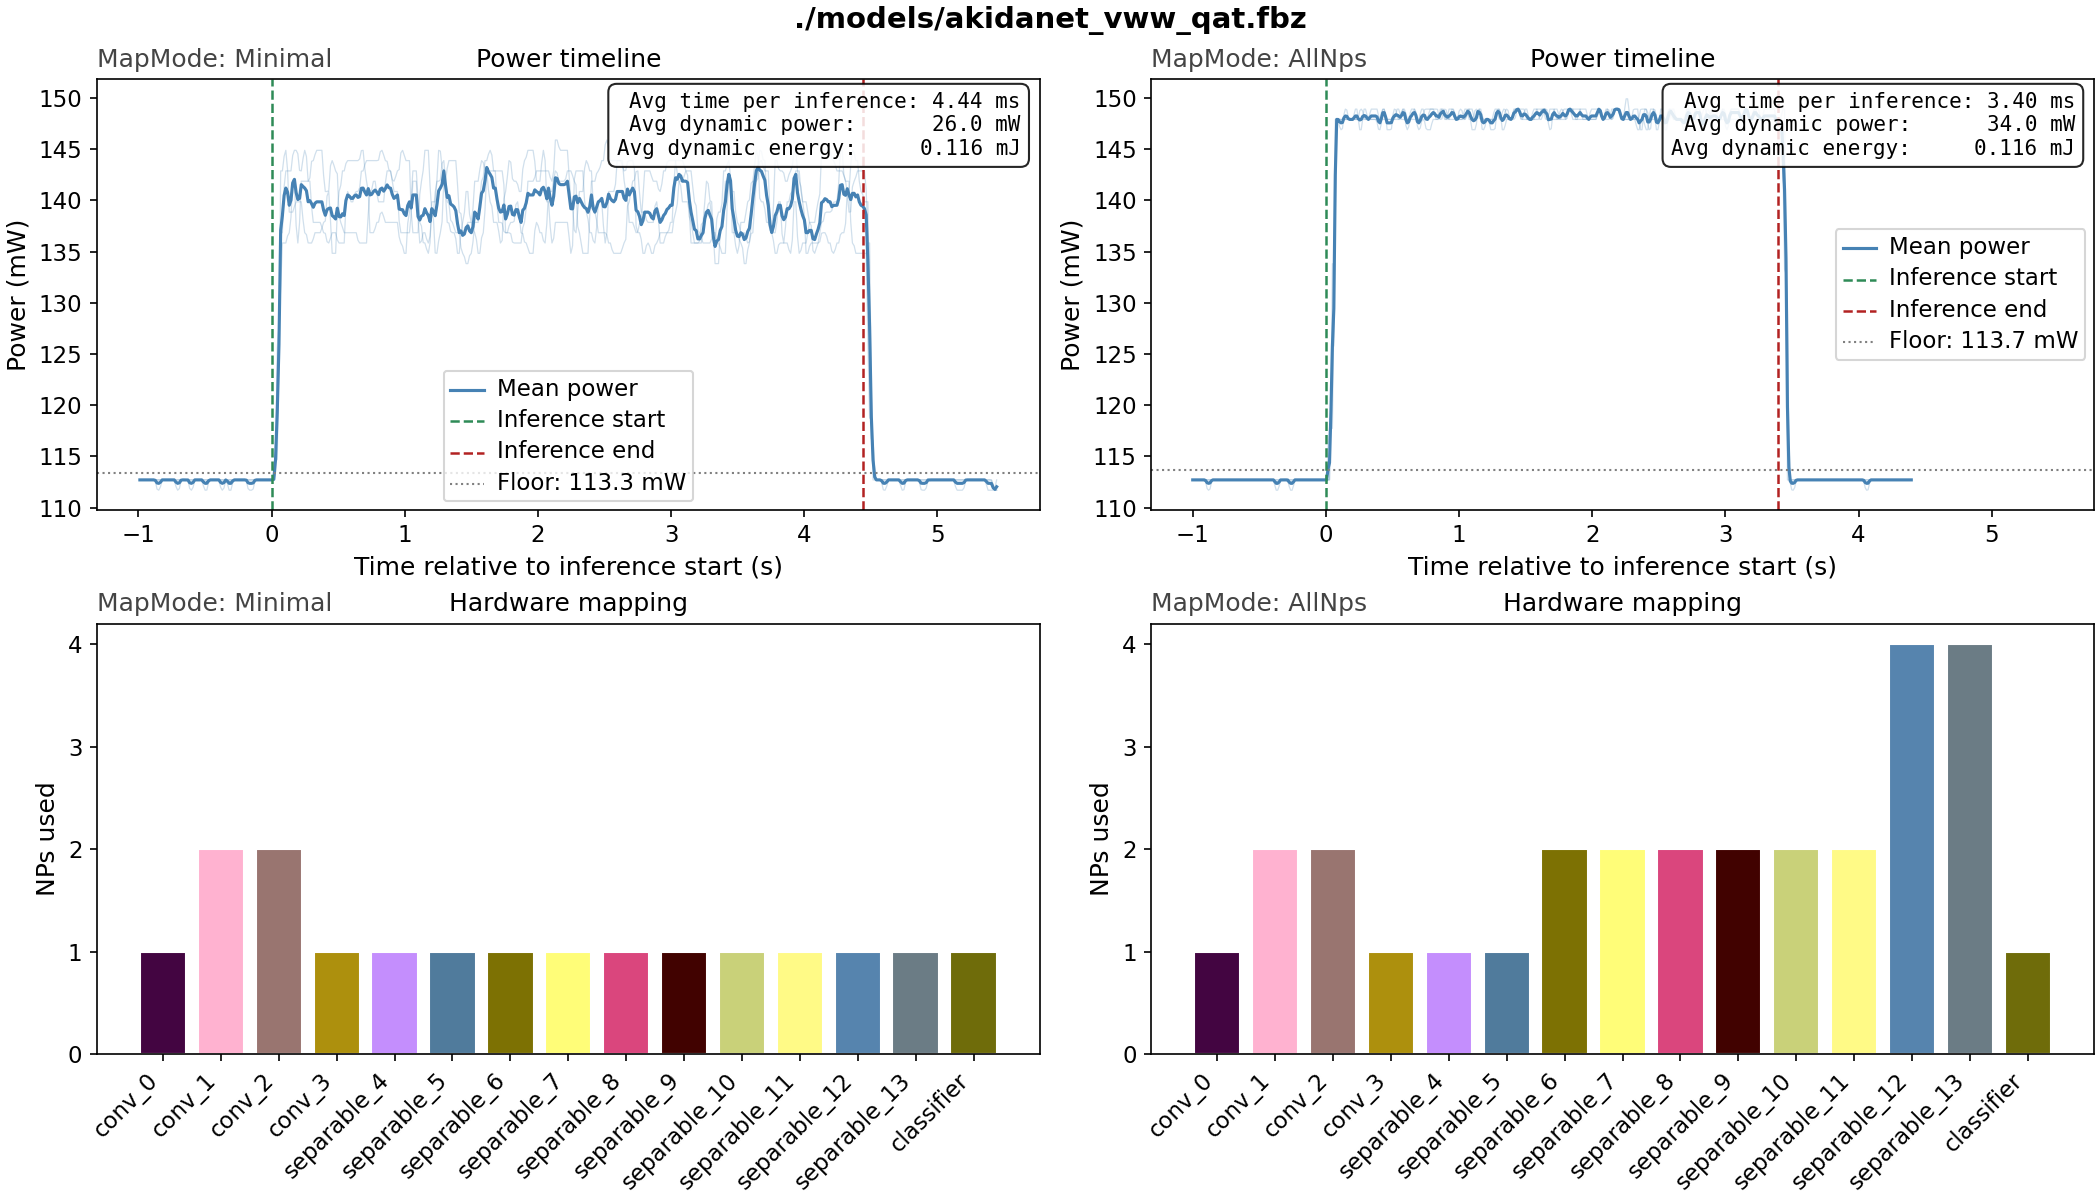
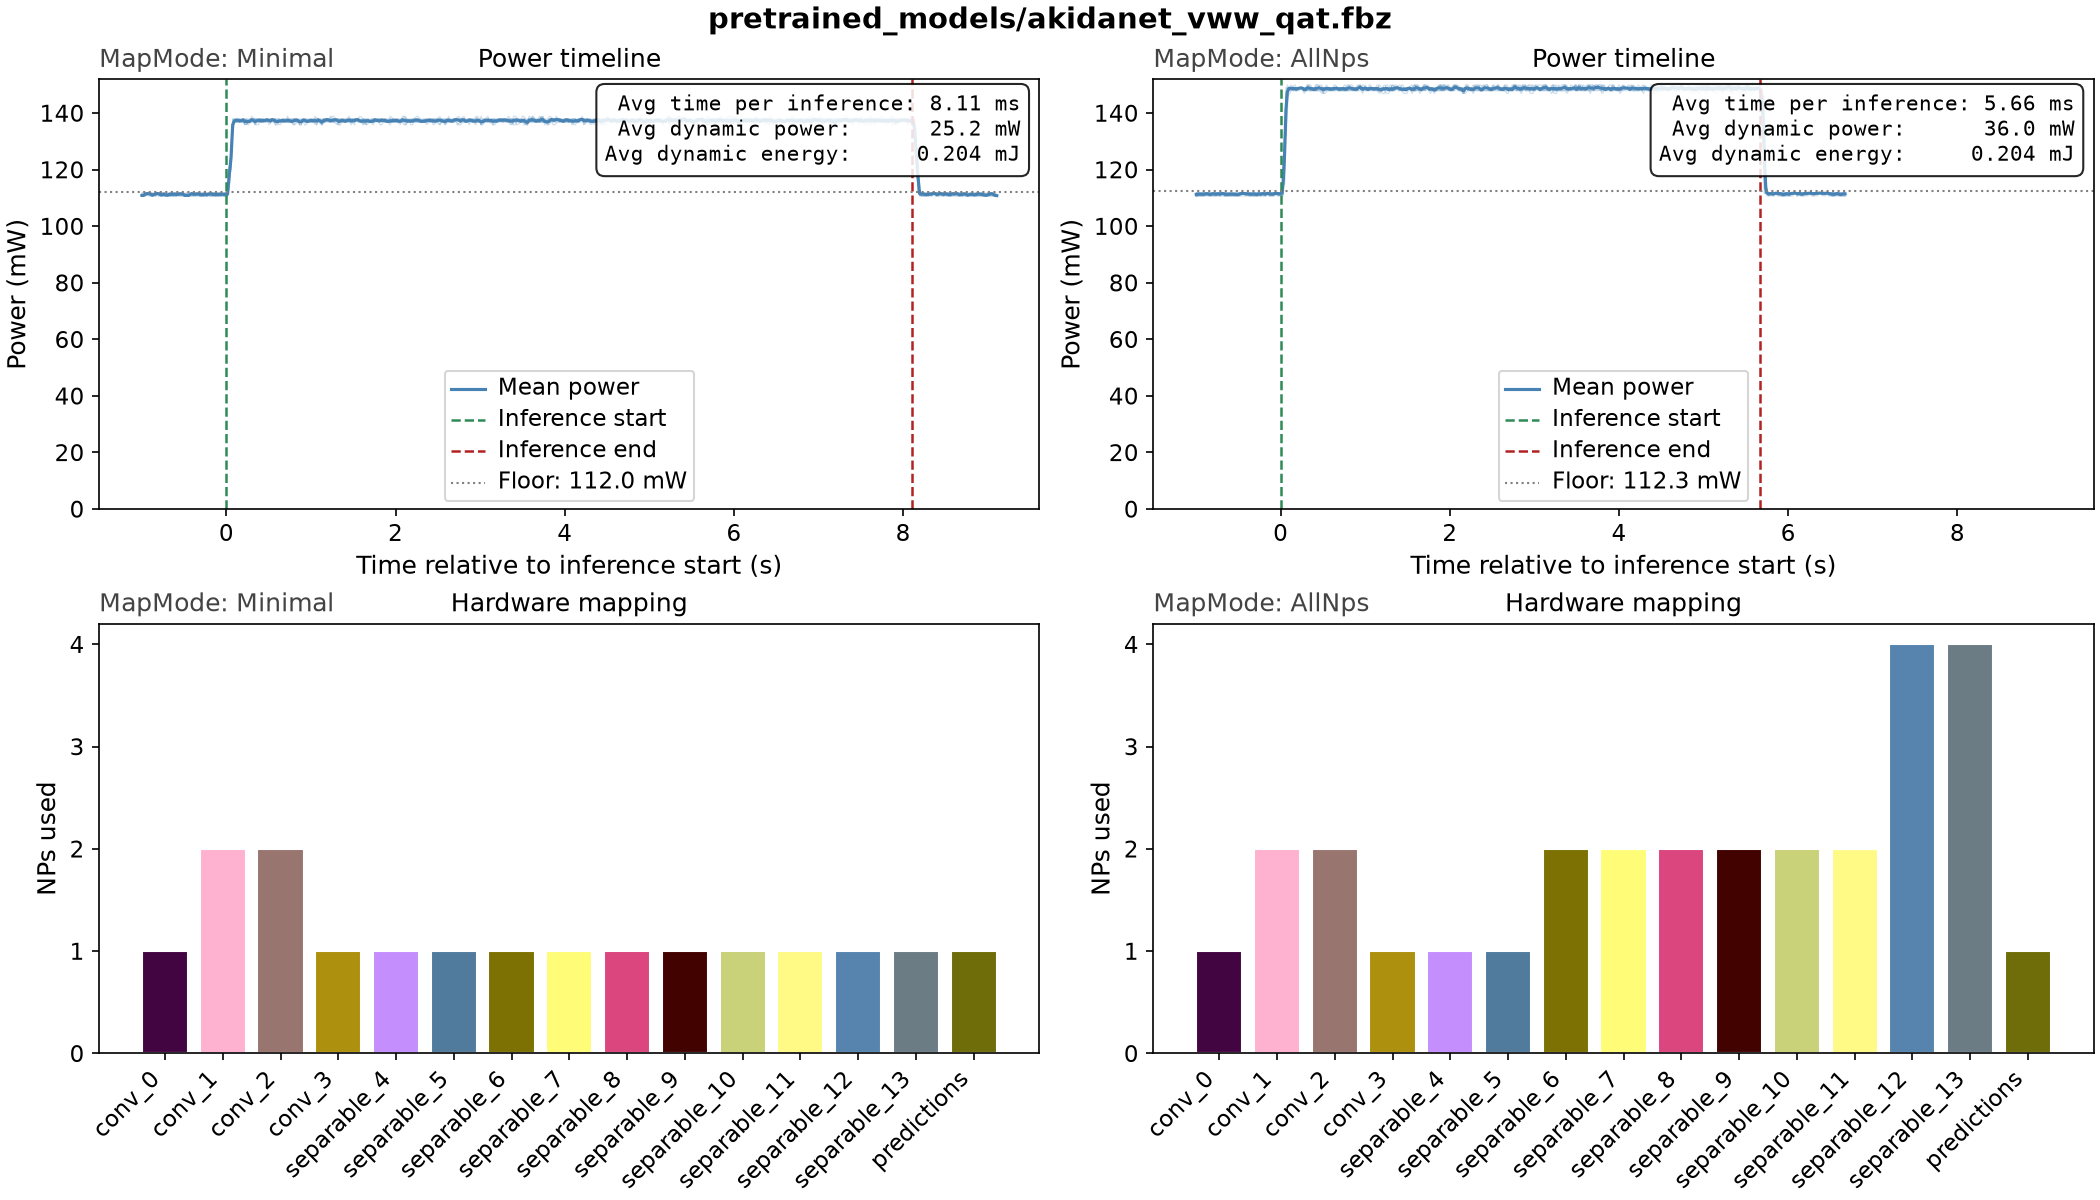
fix(vww): re-benchmark the current pretrained model on AKD1500 (#87) (#89)
* fix(vww): re-benchmark the current pretrained model on AKD1500 (#87)

The benchmark numbers and figures predated the model brought in by #8.
Re-run with --save-metrics against pretrained_models/akidanet_vww_qat.fbz,
benchmark notebook re-executed, READMEs regenerated.

Claude-Session: https://claude.ai/code/session_01NU3qwLvjgS8U3Zj4C2weRu

* fix(vww): keep the benchmark notebook as on main (#87)

It was already executed on the current model (2026-07-15: 8.02 ms, 0.203 mJ
Minimal); the re-run only added runner noise.

Claude-Session: https://claude.ai/code/session_01NU3qwLvjgS8U3Zj4C2weRu

---------

diff --git a/akida1/model_zoo/vww/README.md b/akida1/model_zoo/vww/README.md
@@ -19,7 +19,7 @@
       <td align="center">89.33%</td>
       <td align="center">88.54%</td>
       <td align="center">88.42%</td>
-      <td align="center">68.29%</td>
+      <td align="center">52.24%</td>
       <td align="center">226,906</td>
     </tr>
   </tbody>
@@ -46,23 +46,23 @@
       <td>Minimal</td>
       <td align="center">17</td>
       <td align="center">1</td>
-      <td align="center">1743040</td>
-      <td align="center">4.358</td>
-      <td align="center">139.3</td>
-      <td align="center">0.619</td>
-      <td align="center">26.0</td>
-      <td align="center">0.116</td>
+      <td align="center">3210602</td>
+      <td align="center">8.027</td>
+      <td align="center">137.2</td>
+      <td align="center">1.112</td>
+      <td align="center">25.2</td>
+      <td align="center">0.204</td>
     </tr>
     <tr>
       <td>AllNPs</td>
       <td align="center">29</td>
       <td align="center">1</td>
-      <td align="center">1325867</td>
-      <td align="center">3.315</td>
-      <td align="center">147.7</td>
-      <td align="center">0.502</td>
-      <td align="center">34.0</td>
-      <td align="center">0.116</td>
+      <td align="center">2227983</td>
+      <td align="center">5.570</td>
+      <td align="center">148.4</td>
+      <td align="center">0.840</td>
+      <td align="center">36.0</td>
+      <td align="center">0.204</td>
     </tr>
   </tbody>
 </table>

diff --git a/akida1/README.md b/akida1/README.md
@@ -119,8 +119,8 @@ benchmarks for every mapping, and the steps to reproduce them.
       <td>Classification</td>
       <td>Visual Wake Words</td>
       <td>88.42% acc.</td>
-      <td align="right">0.502</td>
-      <td align="right">3.315</td>
+      <td align="right">0.840</td>
+      <td align="right">5.570</td>
       <td></td>
     </tr>
     <tr>
